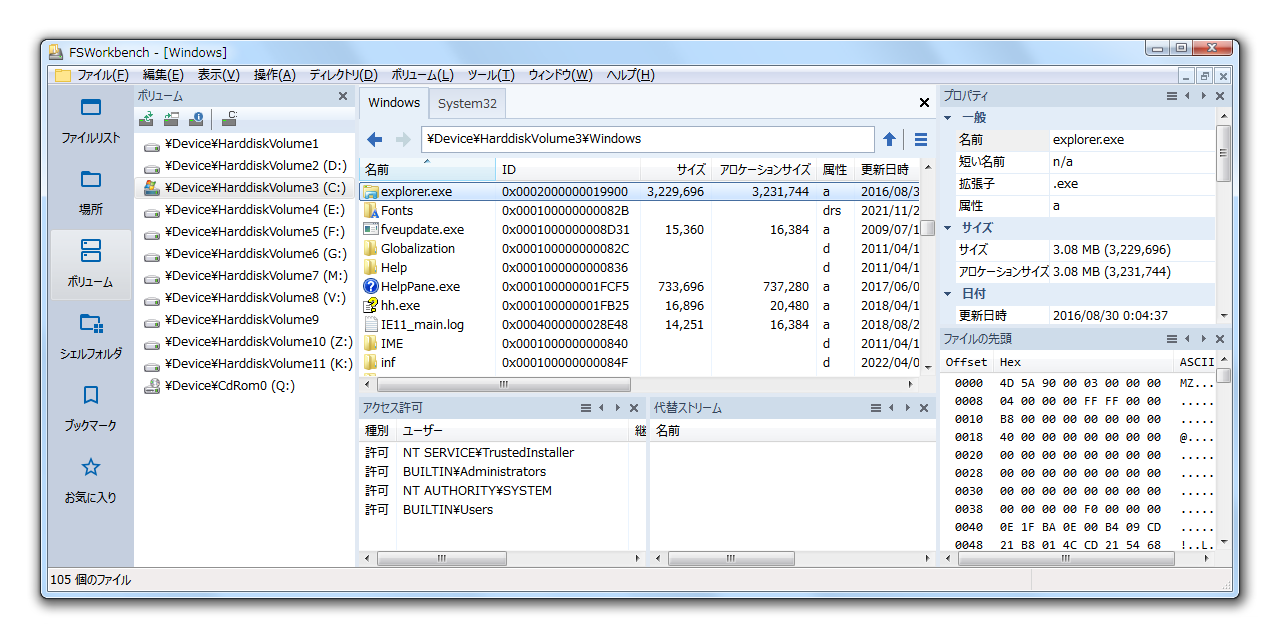
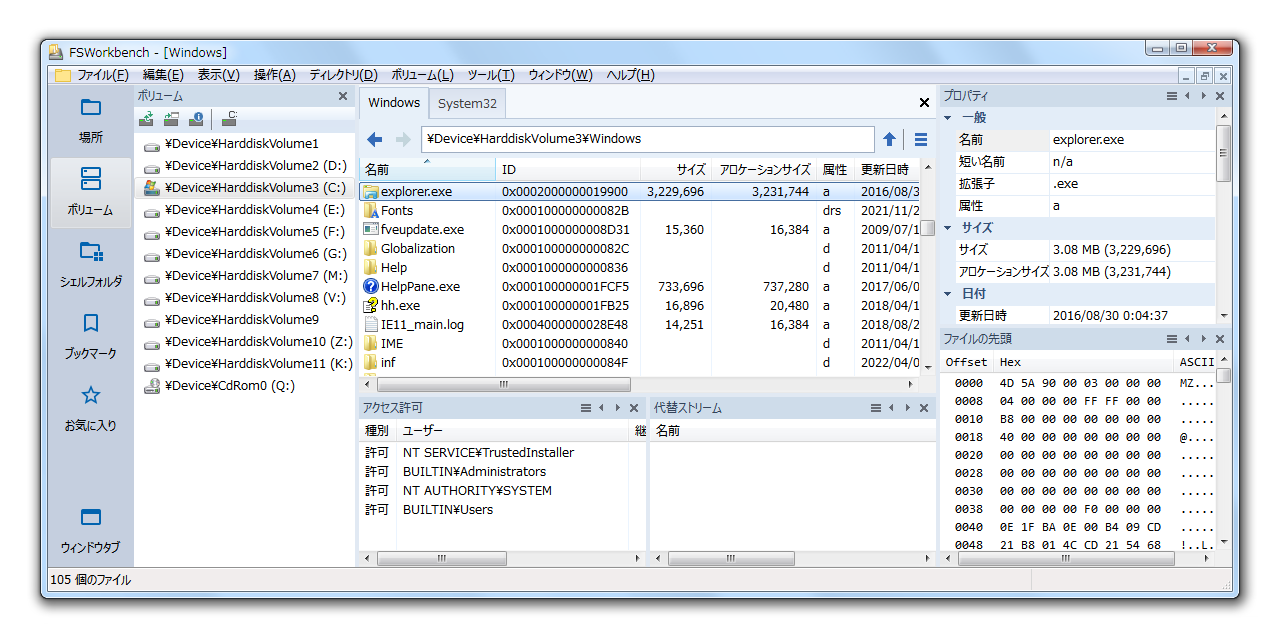
Build 3.4.621.0 Release

diff --git a/README.md b/README.md
@@ -7,13 +7,23 @@ FSWorkbenchは、コンピュータのハードディスクなどローカルス
 
 ドライブの割り当てられていないボリュームを参照することも出来ます。
 
-ユーザーインターフェイスはMDI形式でTABを備えており、複数のファイルリストを表示できます。
+ユーザーインターフェイスはMDI形式でTABを備えており、複数のファイルリストを表示できます。[\(※MDIについて\)](#mdi形式について)
 
 通常はユーザーモードで使用できますが、管理者モードで実行した場合すべての機能が使用できます。
 
 **注:** 現状ではFSWorkbenchはオープンソースではありません。
 
 **NOTICE:** FSWorkbench is not open source. You will find here the builds only. 
+
+### Version 3.4.621.0 の更新内容   
+
+- ナビゲーションペインのボタン配置を変更しました。
+
+  \[ファイルリスト\]ボタンのテキストを\[ウィンドウタブ\]に変更し、バーの下端に配置する様に変更しました。
+
+- Windows 7 でクラシックモード時のウィンドウデザイン・配色を改善しました。
+
+- 細かい不具合を修正しました。  
 
 ### Version 3.4の新機能と更新内容   
 
@@ -22,7 +32,7 @@ FSWorkbenchは、コンピュータのハードディスクなどローカルス
   ※将来削除・変更される可能性があります。   
   ※プレビュー版で存在したディレクトリツリーは一旦保留となり使用できなくなりました。
   
-  - ファイルリスト   
+  - ~~ファイルリスト~~（621.0では \[ウィンドウタブ\] に変更されました）   
     新しく追加されました。表示中のファイルリストウィンドウの一覧が表示されます。ウィンドウ タブの様な操作をします。
 
   - ボリューム   
@@ -40,9 +50,9 @@ FSWorkbenchは、コンピュータのハードディスクなどローカルス
     旧バージョンFSDirWalkerが作成したファイルも使用できます。
   
   
-- ファイルリストの[表示の種類]にタイル表示を追加   
+- ファイルリストの\[表示の種類\]にタイル表示を追加   
 
-  ファイルリストの[表示の種類]に[タイル]と[サムネイルタイル]を追加しました。   
+  ファイルリストの\[表示の種類]に\[タイル]と\[サムネイルタイル]を追加しました。   
   現在、デフォルトでタイルにファイル名のみ表示されます。タイル表示時に更新日付とサイズを表示したい場合は、レジストリに以下の値を追加します。   
 
 - お気に入りの追加、整理をサポート   
@@ -51,7 +61,7 @@ FSWorkbenchは、コンピュータのハードディスクなどローカルス
 
 ### MDI形式について   
 
-現在採用されているMDI形式のウィンドウ構成は、次版以降で廃止される予定です。単純なタブ切り替えのみのウィンドウとなります。
+現在採用されているMDI形式のウィンドウ構成は、次版（Ver.3.5）以降で廃止される予定です。単純なタブ切り替えのみのウィンドウとなります。
 MicrosoftがMDI形式を推奨していないこと、MDI子ウィンドウのデザインがWindows10/11に対応していないこと、機能を拡張する際にプログラム的にMDIでは維持が困難になってきたこと（特にWindows 10/11では、Win32アプリケーションはWindows 7と比べてウィンドウサイズ変更・再描画処理が著しく遅くなる）、現代的なユーザーインターフェイスに移行する際に適切ではないことなどが理由です。
 
 
